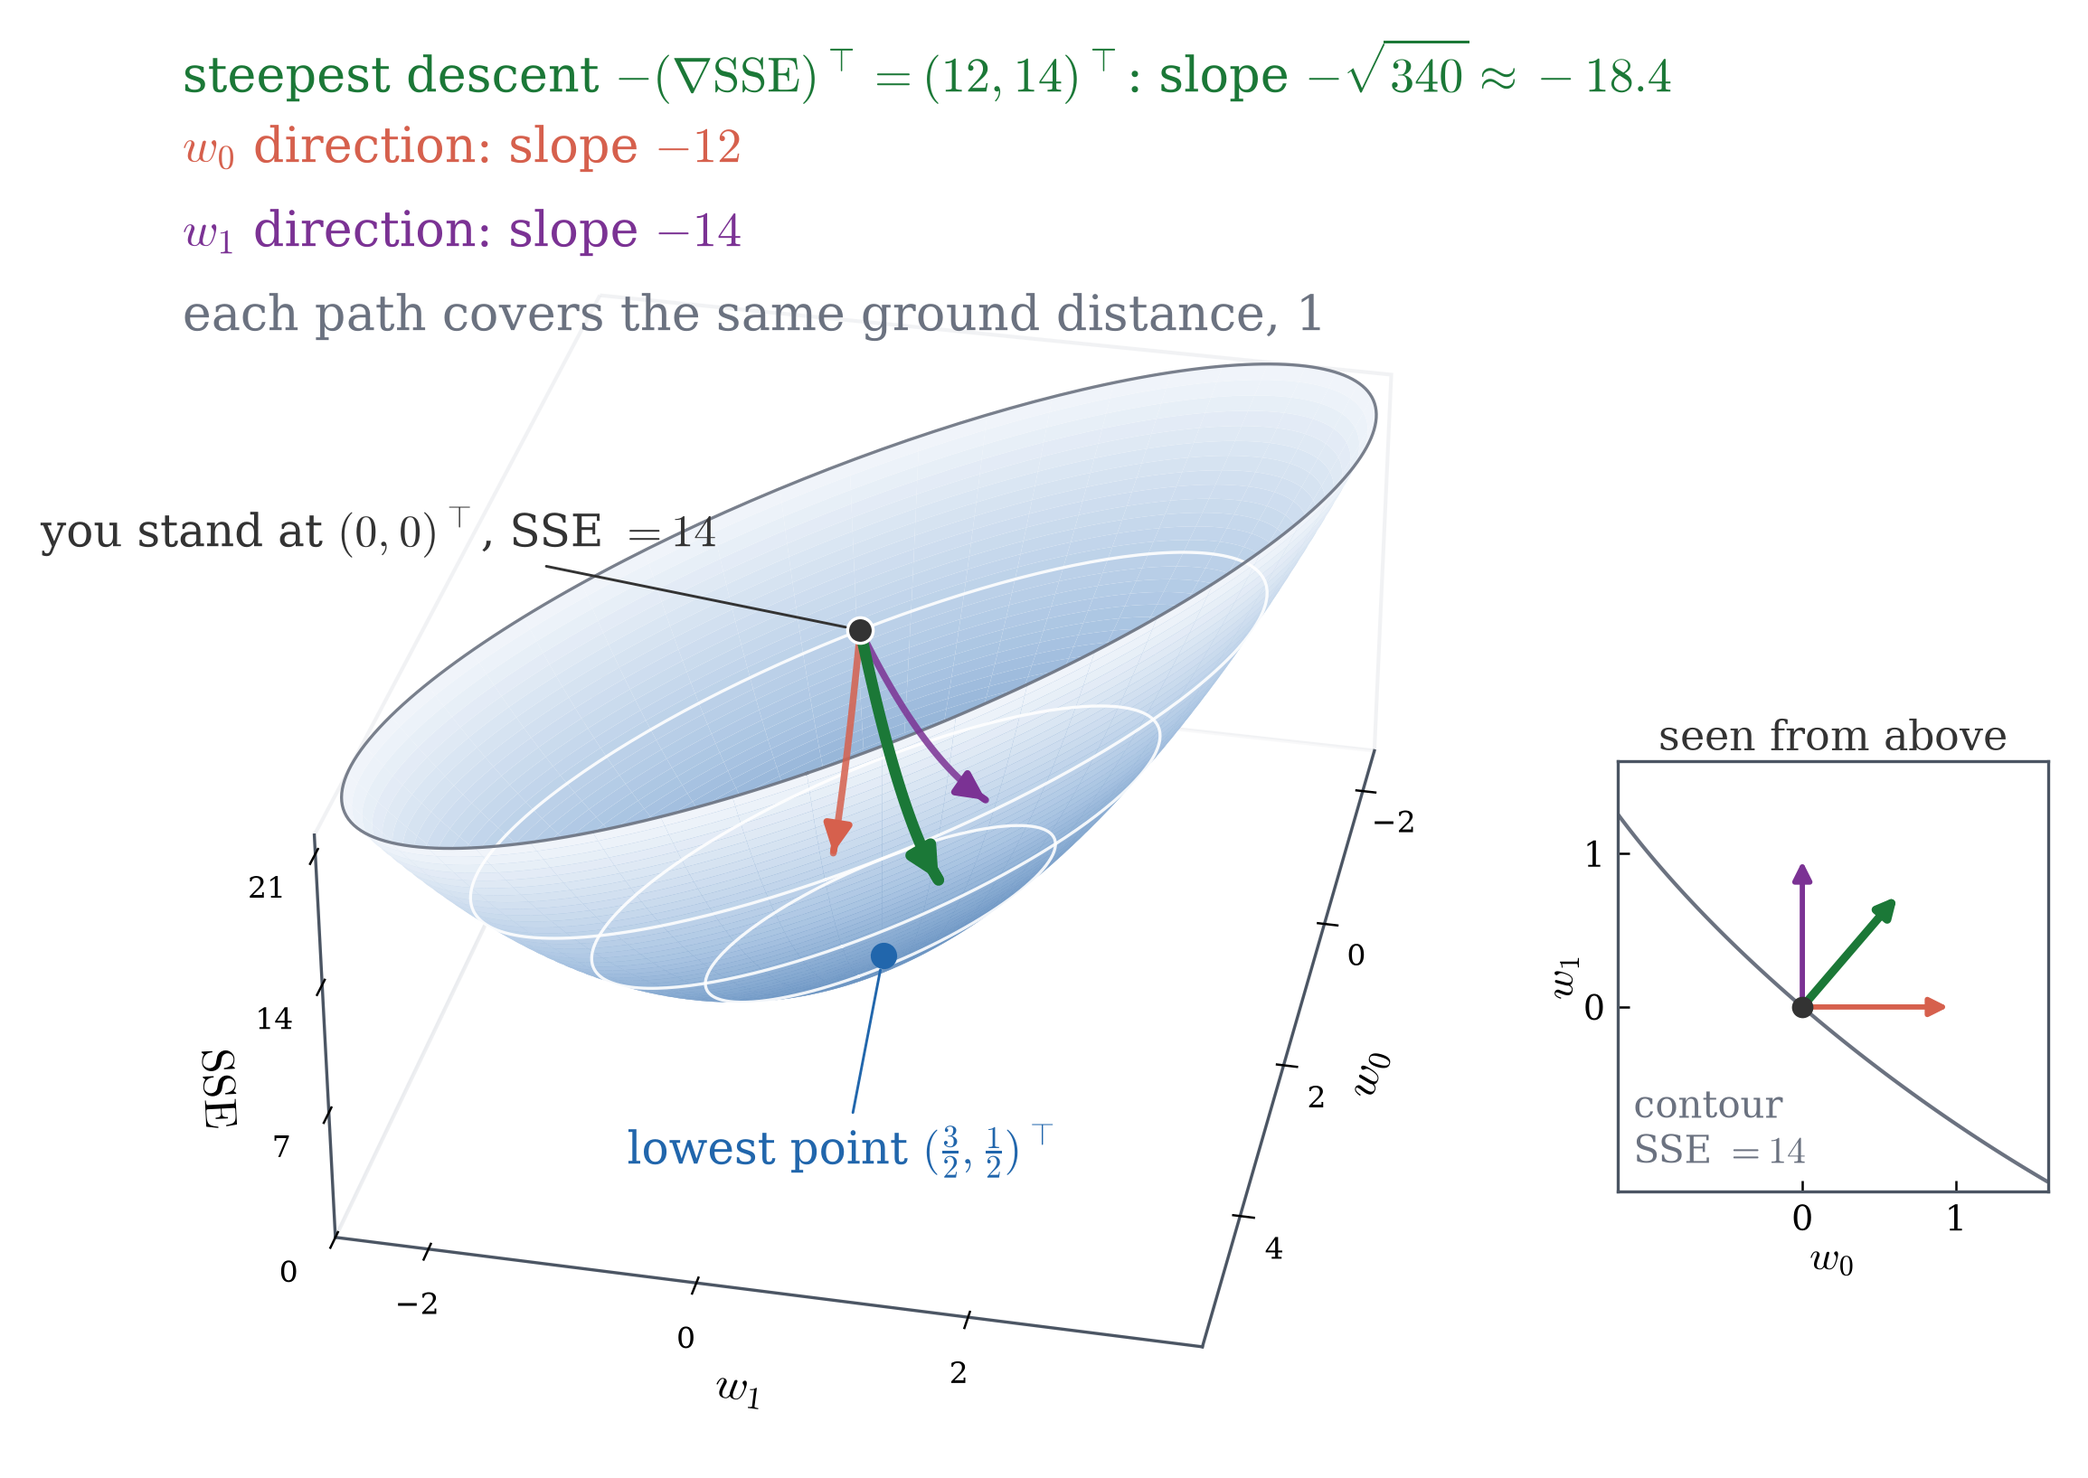
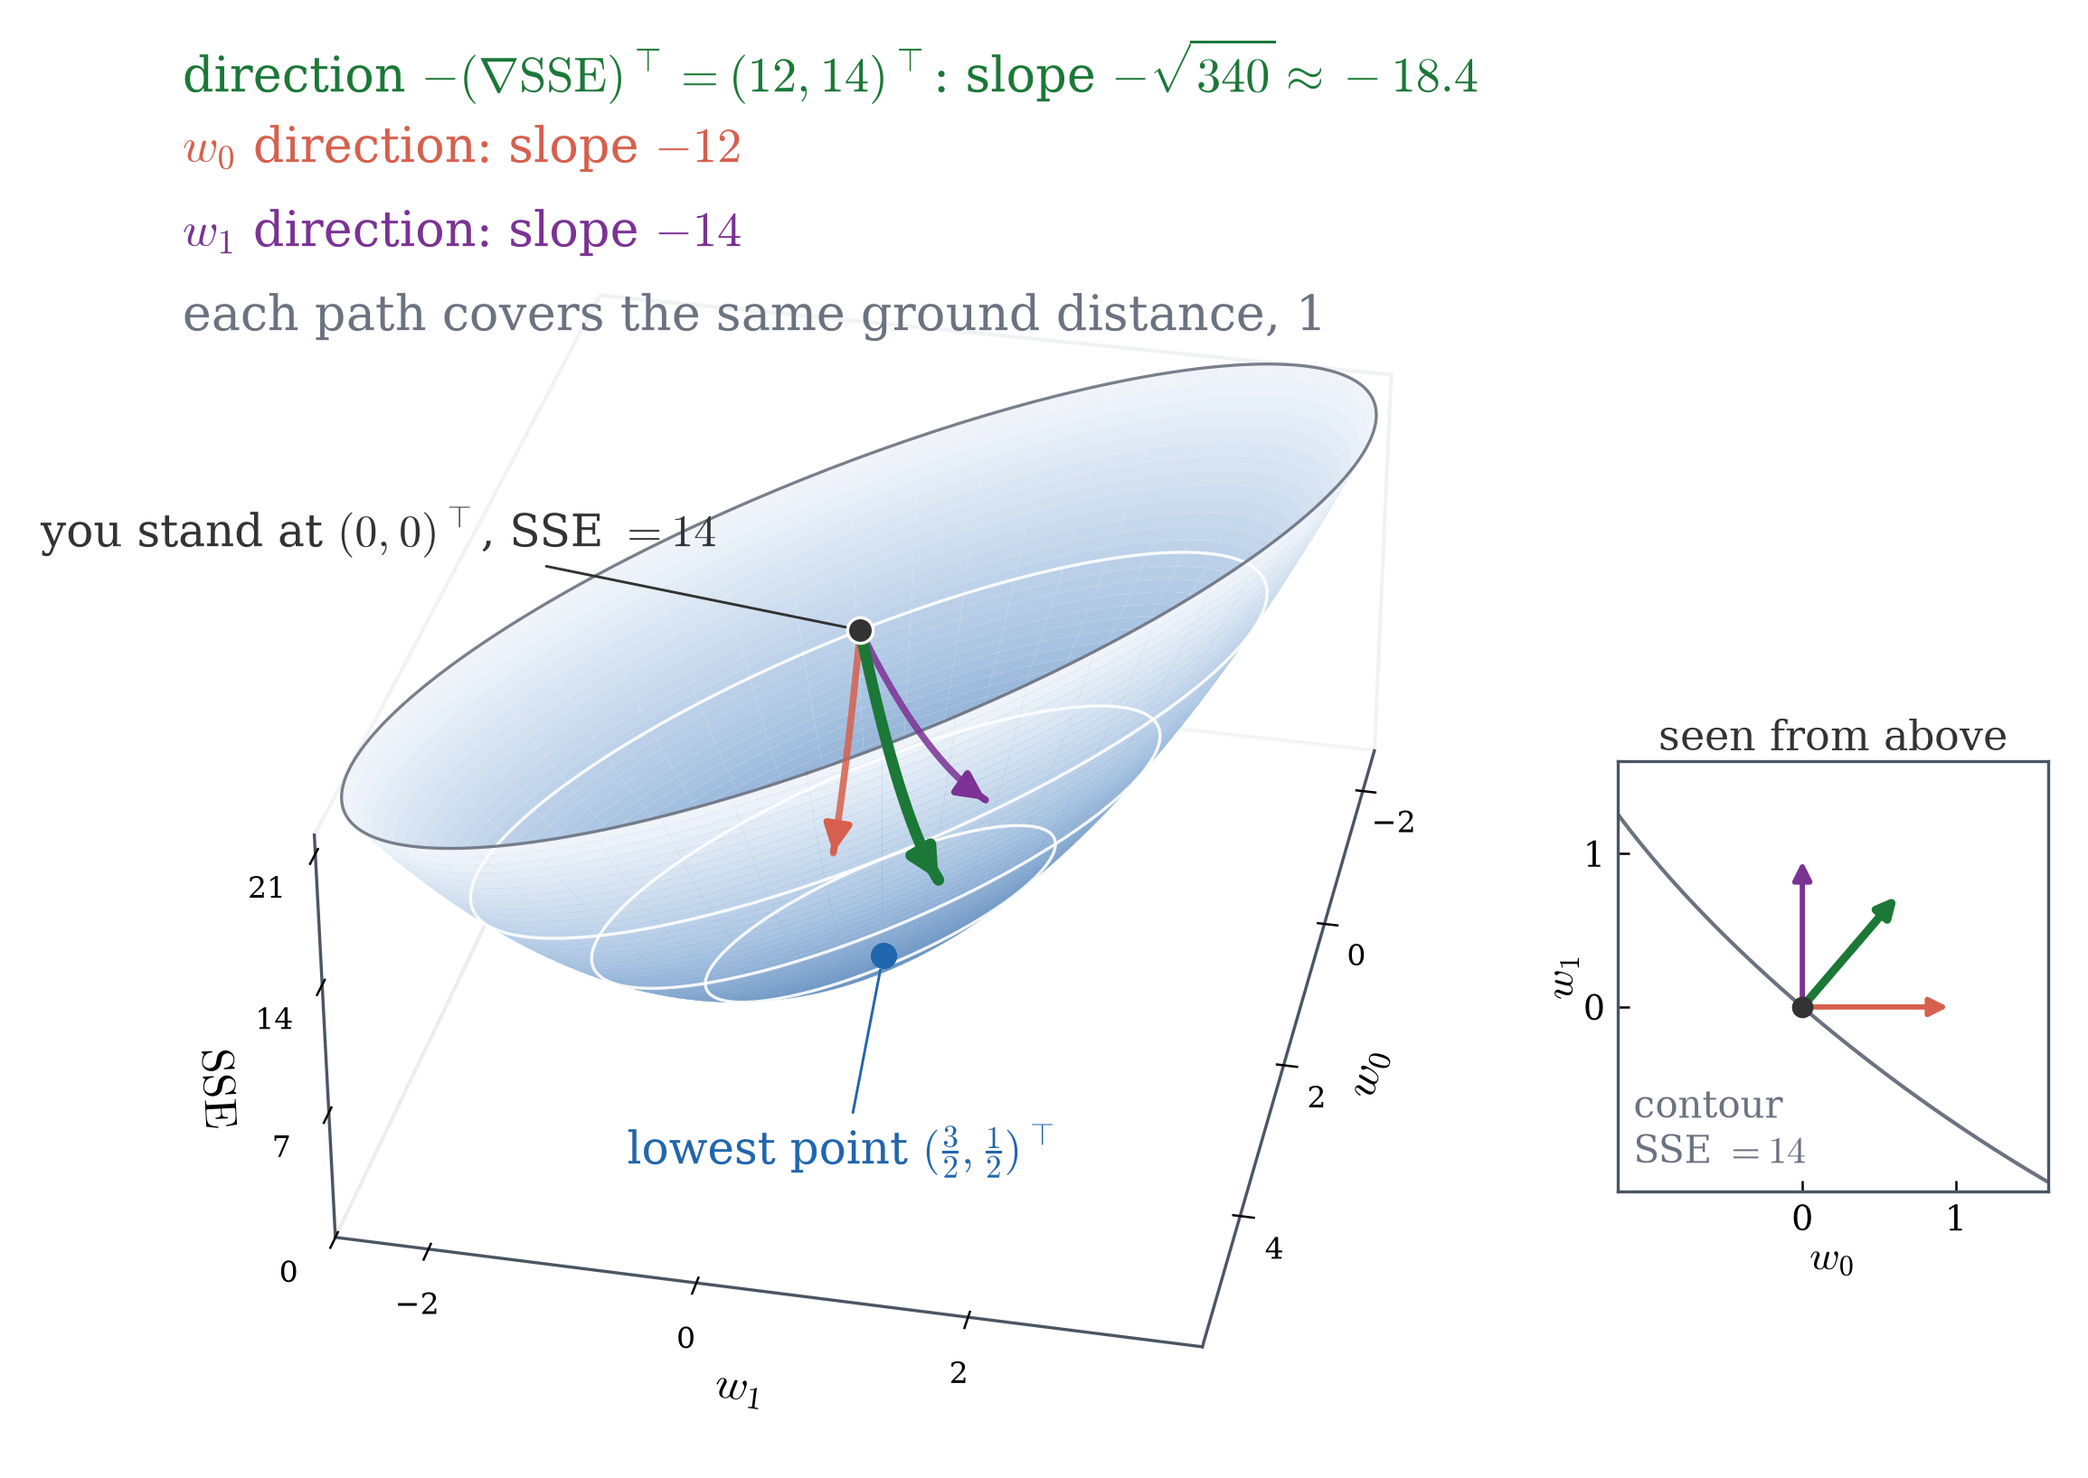
Math for DS Unit 4: revisions after the second review - global vs unique minimum, no 'steepest' before its proof, L12 goal line

Changed region(s): [[0.0935, 0.0312, 0.7172, 0.0624], [0.7484, 0.0312, 0.8107, 0.0624]]

diff --git a/slides/math-for-ds-unit04.html b/slides/math-for-ds-unit04.html
@@ -571,14 +571,15 @@ since \(\norm{X\mathbf d}^2\), a squared length, is never negative. So \(\mathbf
 <tr><td>\((0,0)^\top\)</td><td>\(14\)</td><td>\(14-\tfrac32=\tfrac{25}{2}\)</td></tr>
 </table>
 <ul>
-<li class="fragment">So there is <strong>no second valley</strong> anywhere: solving \(6w_0+6w_1-12=0,\ 6w_0+10w_1-14=0\) is enough, no search needed.</li>
+<li class="fragment">So <strong>no point has error below \(\tfrac32\)</strong>: the flat point is a global minimum, found by solving \(6w_0+6w_1-12=0,\ 6w_0+10w_1-14=0\) &mdash; no search needed.</li>
+<li class="fragment">But could another parameter vector <strong>tie</strong> the same error \(\tfrac32\)? That is a different question.</li>
 <li class="fragment">\(\mathrm{SSE}(\mathbf w)=\tfrac32+\norm{X(\mathbf w-\mathbf w^\ast)}^2\) is <strong>exact</strong> for every step, not a first-order approximation that holds only for small steps.</li>
 </ul>
 <aside class="notes">"Say it plainly: flat is local information, global is a promise about the whole plane. For least squares the Pythagoras identity turns one into the other. For most models (neural networks) nothing like it exists, which is why their training can get stuck."</aside>
 </section>
 
 <section>
-<h4>Is \(\mathbf w^\ast\) the <em>only</em> lowest point?</h4>
+<h4>Is \(\mathbf w^\ast\) the <em>only</em> global minimum?</h4>
 <p><strong>Notation.</strong> \(\mathrm{SSE}(\mathbf w)=\norm{\mathbf y-X\mathbf w}^2\); \(X=[\,\mathbf 1\;\;\mathbf t\,]\) with columns \(\mathbf 1=(1,1,1)^\top\), \(\mathbf t=(0,1,2)^\top\); \(\mathbf w^\ast=\left(\tfrac32,\tfrac12\right)^\top\); Pythagoras identity \(\mathrm{SSE}(\mathbf w)=\mathrm{SSE}(\mathbf w^\ast)+\norm{X(\mathbf w-\mathbf w^\ast)}^2\).</p>
 <div class="mathbox">
 <strong>Uniqueness.</strong> \(\mathbf w^\ast\) is the only \(\mathbf w\) with \(\mathrm{SSE}(\mathbf w)=\mathrm{SSE}(\mathbf w^\ast)\) exactly when the columns of \(X\) are linearly independent (MML Def. 2.12, p.40), that is, when \(\operatorname{rank}X\) equals the number of columns (MML &sect;2.6.2, p.47). <span class="tier-m">[MASTER]</span>
@@ -822,7 +823,7 @@ since \(\norm{X\mathbf d}^2\), a squared length, is never negative. So \(\mathbf
 
 <section>
 <h4>Before any proof: walk a distance \(1\) from \((0,0)^\top\) in three directions</h4>
-<img src="../images/unit04/u4-L11-fig10b-steepest-descent.png" alt="From (0,0) on the error valley the steepest-descent path in the direction (12,14) ends lower than the w0 and w1 walks over the same ground distance 1; an inset from above shows it crossing the contour SSE = 14 at a right angle" style="float:right; max-height:300px; max-width:42%; margin:0 0 0.5em 1em; border-radius:6px;">
+<img src="../images/unit04/u4-L11-fig10b-steepest-descent.png" alt="From (0,0) on the error valley, a unit step in the candidate direction (12,14) ends lower than unit steps along w0 and w1; an inset from above shows that direction crossing the contour SSE = 14 at a right angle" style="float:right; max-height:300px; max-width:42%; margin:0 0 0.5em 1em; border-radius:6px;">
 <p>The error \(\mathrm{SSE}=3w_0^2+6w_0w_1+5w_1^2-12w_0-14w_1+14\) is \(14\) at \((0,0)^\top\), where \(\nabla\mathrm{SSE}=\begin{bmatrix}-12&-14\end{bmatrix}\).</p>
 <ul>
 <li class="fragment">Walk a ground distance of \(1\) (the three arrows): along \(w_0\) to \((1,0)^\top\), \(\mathrm{SSE}=3-12+14=5\); along \(w_1\) to \((0,1)^\top\), \(\mathrm{SSE}=5-14+14=5\); along the gradient&rsquo;s entries with their signs flipped, \(-(\nabla\mathrm{SSE})^\top=(12,14)^\top\), to \(\tfrac{(12,14)^\top}{\sqrt{340}}\approx(0.651,0.759)^\top\): \(\mathrm{SSE}\approx2.68\), far lower.</li>
@@ -857,7 +858,7 @@ since \(\norm{X\mathbf d}^2\), a squared length, is never negative. So \(\mathbf
 <li class="fragment">\(\theta=0\): \(\cos\theta=1\), the largest slope \(+\norm{(\nabla g)^\top}\). \(\mathbf u\) points along \((\nabla g)^\top\): <strong>steepest ascent</strong>.</li>
 <li class="fragment">\(\theta=180^\circ\): \(\cos\theta=-1\), the smallest slope \(-\norm{(\nabla g)^\top}\). \(\mathbf u\) points along \(-(\nabla g)^\top\): <strong>steepest descent</strong> (MML &sect;7.1, p.228). <span class="tier-m">[MASTER]</span></li>
 <li class="fragment">\(\theta=90^\circ\): \(\cos\theta=0\), slope \(0\). \(\mathbf u\) is orthogonal to \((\nabla g)^\top\).</li>
-<li class="fragment">Moving tangent to the contour through \(\mathbf w\) has slope \(0\), since the error is constant along the contour. In the plane only two unit directions have slope \(0\): the two orthogonal to \((\nabla g)^\top\). So the two directions <strong>tangent to the contour</strong> are these two orthogonal directions, and <strong>the direction \((\nabla g)^\top\) is orthogonal to the contour</strong>. <span class="tier-m">[MASTER]</span></li>
+<li class="fragment">The direction tangent to the contour through \(\mathbf w\) has directional derivative \(0\): to first order, a small step that way does not change the error. (Following the curved contour itself keeps the error exactly constant.) In the plane only two unit directions have slope \(0\): the two orthogonal to \((\nabla g)^\top\). So the two directions <strong>tangent to the contour</strong> are these two orthogonal directions, and <strong>the direction \((\nabla g)^\top\) is orthogonal to the contour</strong>. <span class="tier-m">[MASTER]</span></li>
 <li class="fragment">If instead \(\nabla g=\mathbf 0\) &mdash; a flat point &mdash; then \(\nabla g\,\mathbf u=0\) for every \(\mathbf u\): every direction has slope \(0\).</li>
 <li class="fragment">The figure: at \((0,0)^\top\), \(D_{\mathbf u}\mathrm{SSE}=-12\cos\alpha-14\sin\alpha\) for \(\mathbf u=(\cos\alpha,\sin\alpha)^\top\): lowest \(-18.439=-\sqrt{340}\) near \(\alpha=49.4^\circ\), the direction \((0.651,0.759)^\top\) found by walking; highest \(+18.439\) near \(229.4^\circ\).</li>
 </ul>
@@ -986,8 +987,19 @@ since \(\norm{X\mathbf d}^2\), a squared length, is never negative. So \(\mathbf
 
 <!-- L12-06 -->
 <section>
+<h4>Two shapes to differentiate</h4>
+<p><strong>Overall goal:</strong> prove \(\nabla\mathrm{SSE}=-2\,\mathbf r^\top X\) for any number of features.</p>
+<p class="fragment">In \(\;\mathrm{SSE}(\mathbf w)=\mathbf w^\top X^\top X\mathbf w-2\,\mathbf w^\top X^\top\mathbf y+\mathbf y^\top\mathbf y\;\) the middle term is a number, so it equals its transpose: \(\mathbf w^\top X^\top\mathbf y=(X^\top\mathbf y)^\top\mathbf w\). With \(\mathbf b=X^\top\mathbf y\), \(A=X^\top X\): \(\;\mathrm{SSE}(\mathbf w)=\mathbf w^\top A\mathbf w-2\,\mathbf b^\top\mathbf w+\mathbf y^\top\mathbf y\) &mdash; two shapes to differentiate, \(\mathbf b^\top\mathbf w\) and \(\mathbf w^\top A\mathbf w\).</p>
+<ul>
+<li class="fragment">\(\mathbf b^\top\mathbf w\) is <strong>linear</strong> in \(\mathbf w\): every term has one parameter. Rule 1 differentiates it.</li>
+<li class="fragment">\(\mathbf w^\top A\mathbf w\) is <strong>quadratic</strong>: every term has two parameters (or one, squared). Rule 2 differentiates it.</li>
+<li class="fragment">\(\mathbf y^\top\mathbf y\) has no \(\mathbf w\) in it, so its derivative is \(0\).</li>
+</ul>
+</section>
+
+<section>
 <h4>Rule 1: the derivative of a linear function</h4>
-<p>In \(\;\mathrm{SSE}(\mathbf w)=\mathbf w^\top X^\top X\mathbf w-2\,\mathbf w^\top X^\top\mathbf y+\mathbf y^\top\mathbf y\;\) the middle term is a number, so it equals its transpose: \(\mathbf w^\top X^\top\mathbf y=(X^\top\mathbf y)^\top\mathbf w\). With \(\mathbf b=X^\top\mathbf y\), \(A=X^\top X\): \(\;\mathrm{SSE}(\mathbf w)=\mathbf w^\top A\mathbf w-2\,\mathbf b^\top\mathbf w+\mathbf y^\top\mathbf y\) &mdash; two shapes to differentiate, \(\mathbf b^\top\mathbf w\) and \(\mathbf w^\top A\mathbf w\).</p>
+<p><strong>Overall goal:</strong> prove \(\nabla\mathrm{SSE}=-2\,\mathbf r^\top X\) for any number of features.</p>
 <p class="fragment"><strong>Look first:</strong> our \(\mathbf b=(6,7)^\top\): \(\mathbf b^\top\mathbf w=6w_0+7w_1\) has partial derivatives \(6\), \(7\): the row \(\begin{bmatrix}6&7\end{bmatrix}\), \(\mathbf b\) laid flat.</p>
 <div class="mathbox fragment">
 <strong>Rule 1</strong> (MML (5.105), p.158). For a fixed column \(\mathbf b\in\R^d\): \(\;\dfrac{\partial(\mathbf b^\top\mathbf w)}{\partial\mathbf w}=\mathbf b^\top\). <span class="tier-m">[MASTER]</span>
@@ -1005,6 +1017,7 @@ since \(\norm{X\mathbf d}^2\), a squared length, is never negative. So \(\mathbf
 <!-- L12-07 -->
 <section>
 <h4>Rule 2: the statement, and multiplying out \(\mathbf w^\top A\mathbf w\)</h4>
+<p><strong>Overall goal:</strong> prove \(\nabla\mathrm{SSE}=-2\,\mathbf r^\top X\) for any number of features.</p>
 <p><strong>Look first:</strong> L09&rsquo;s partial derivatives of the quadratic part of our error, \(3w_0^2+6w_0w_1+5w_1^2=\mathbf w^\top X^\top X\mathbf w\), are \(\begin{bmatrix}6w_0+6w_1&6w_0+10w_1\end{bmatrix}=2\,\mathbf w^\top X^\top X\), with \(X^\top X=\left[\begin{smallmatrix}3&3\\3&5\end{smallmatrix}\right]\) symmetric.</p>
 <div class="mathbox">
 <strong>Rule 2</strong> (MML (5.107), p.158: for <em>any</em> square \(B\) the derivative of \(\mathbf w^\top B\mathbf w\) is \(\mathbf w^\top(B+B^\top)\); here \(B\) is symmetric). For a symmetric \(d\times d\) matrix \(A\) (that is, \(A^\top=A\)): \(\;\dfrac{\partial(\mathbf w^\top A\mathbf w)}{\partial\mathbf w}=2\,\mathbf w^\top A\). <span class="tier-m">[MASTER]</span>
@@ -1301,7 +1314,7 @@ with \(\frac{dz}{dv}\) evaluated at \(v=f(w)\). <span class="tier-m">[MASTER]</s
 
 <!-- L13-12 -->
 <section>
-<h4>A product of many factors, each of size at most \(c&lt;1\), shrinks fast</h4>
+<h4>A fixed bound \(c&lt;1\) makes the product shrink exponentially</h4>
 <img src="../images/unit04/u4-L13-fig13c-vanishing.png" alt="Log-scale plot of 0.9^k and 0.5^k for k = 1 to 50: 0.9^50 is about 0.005 and 0.5^50 is about 8.9e-16" style="float:right; max-height:250px; max-width:34%; margin:0 0 0.5em 1em; border-radius:6px;">
 <p>By the chain rule, a chain of \(k\) stages has a derivative that is a product of \(k\) stage derivatives. If all \(k\) factors have size at most one fixed \(c&lt;1\) &mdash; every factor \(0.9\), say &mdash; the product is at most \(c^k\) and shrinks fast.</p>
 <table class="fragment" style="width:auto; margin:0.3em auto; font-size:0.9em;">
@@ -1315,7 +1328,7 @@ with \(\frac{dz}{dv}\) evaluated at \(v=f(w)\). <span class="tier-m">[MASTER]</s
 <li class="fragment">&#9888;&#65039; <strong>&ldquo;Each factor below \(1\)&rdquo; is not enough</strong> &mdash; factors creeping up to \(1\), such as \(1-\tfrac12,\,1-\tfrac14,\,1-\tfrac18,\dots\), give a product that stays near \(0.29\). What matters is a fixed ceiling \(c&lt;1\).</li>
 <li class="fragment">Row \(k=50\): with \(50\) factors of \(0.9\), a small step \(\delta\) at the input of a \(50\)-stage chain moves its last output by only about \(0.005\,\delta\).</li>
 <li class="fragment">So the derivative of the error with respect to a parameter at the start of a long chain can be nearly \(0\), and the update to that parameter is tiny, so it barely moves.</li>
-<li class="fragment">In deep networks, a derivative shrunk this way, as a product of many stage derivatives of size at most some \(c&lt;1\), is called the <strong>vanishing-gradient</strong> problem. <span class="tier-u">[UNDERSTAND]</span></li>
+<li class="fragment">This scalar chain is the simplest version of the <strong>vanishing-gradient</strong> problem of deep networks, whose stages are vectors: L14 replaces the scalar factors by Jacobians. <span class="tier-u">[UNDERSTAND]</span></li>
 </ul>
 <aside class="notes">"0.5^10 = 1/1024 exactly. 0.9^10 = 0.3487, 0.9^50 = 0.00515, 0.5^50 = 8.88e-16. If they ask about factors larger than 1: the product then grows instead, the exploding case; not needed here."</aside>
 </section>
@@ -1391,23 +1404,6 @@ with \(\frac{dz}{dv}\) evaluated at \(v=f(w)\). <span class="tier-m">[MASTER]</s
 </section>
 
 <!-- L14-03 -->
-<section>
-<h4>A small example, every entry computed</h4>
-<p><strong>A separate example, not our data:</strong> \(\;\mathbf f(x_1,x_2)=\begin{bmatrix}x_1^2x_2\\3x_1+x_2^2\end{bmatrix}\), a function \(\R^2\to\R^2\), so \(J_{\mathbf f}\) is \(2\times2\).</p>
-<ul>
-<li class="fragment">\(\dfrac{\partial f_1}{\partial x_1}\): hold \(x_2\) fixed, so \(x_1^2x_2\) is \(x_2\) times \(x_1^2\), and the derivative is \(x_2\cdot2x_1=2x_1x_2\).</li>
-<li class="fragment">\(\dfrac{\partial f_1}{\partial x_2}\): hold \(x_1\) fixed, so \(x_1^2x_2\) is the constant \(x_1^2\) times \(x_2\), and the derivative is \(x_1^2\cdot1=x_1^2\).</li>
-<li class="fragment">\(\dfrac{\partial f_2}{\partial x_1}\): \(3x_1\) gives \(3\); \(x_2^2\) is held fixed, so it gives \(0\). Total \(3+0=3\).</li>
-<li class="fragment">\(\dfrac{\partial f_2}{\partial x_2}\): \(3x_1\) is held fixed, so it gives \(0\); \(x_2^2\) gives \(2x_2\). Total \(0+2x_2=2x_2\).</li>
-</ul>
-<div class="fragment">
-\[J_{\mathbf f}=\begin{bmatrix}2x_1x_2&x_1^2\\3&2x_2\end{bmatrix},\qquad
-J_{\mathbf f}(1,2)=\begin{bmatrix}2\cdot1\cdot2&1^2\\3&2\cdot2\end{bmatrix}=\begin{bmatrix}4&1\\3&4\end{bmatrix}.\]
-</div>
-<p class="fragment">The output at \((1,2)^\top\): \(\mathbf f(1,2)=\big(1^2\cdot2,\;3\cdot1+2^2\big)^\top=(2,\,7)^\top\).</p>
-<aside class="notes">"Row 1 came from f1 only, row 2 from f2 only. Column 1 came from differentiating in x1 only. Have them say which entry each bullet fills before it appears."</aside>
-</section>
-
 <!-- L14-05 -->
 <section>
 <h4>The Jacobian of the prediction stage is \(X\)</h4>
@@ -1429,6 +1425,23 @@ J_{\mathbf f}(1,2)=\begin{bmatrix}2\cdot1\cdot2&1^2\\3&2\cdot2\end{bmatrix}=\beg
 </ul>
 <div class="key-question fragment"><strong>The Jacobian of the prediction stage is \(X\) itself</strong> &mdash; the matrix students have been carrying since Week 2. Nothing new had to be built. <span class="tier-m">[MASTER]</span></div>
 <aside class="notes">"The six sensitivities of the first slide are the six entries of X. The zero in row 1 is the student who studied 0 hours: the slope parameter cannot reach that prediction."</aside>
+</section>
+
+<section>
+<h4>Quick check, separate example: a Jacobian computed entry by entry</h4>
+<p><strong>A separate example, not our data:</strong> \(\;\mathbf f(x_1,x_2)=\begin{bmatrix}x_1^2x_2\\3x_1+x_2^2\end{bmatrix}\), a function \(\R^2\to\R^2\), so \(J_{\mathbf f}\) is \(2\times2\).</p>
+<ul>
+<li class="fragment">\(\dfrac{\partial f_1}{\partial x_1}\): hold \(x_2\) fixed, so \(x_1^2x_2\) is \(x_2\) times \(x_1^2\), and the derivative is \(x_2\cdot2x_1=2x_1x_2\).</li>
+<li class="fragment">\(\dfrac{\partial f_1}{\partial x_2}\): hold \(x_1\) fixed, so \(x_1^2x_2\) is the constant \(x_1^2\) times \(x_2\), and the derivative is \(x_1^2\cdot1=x_1^2\).</li>
+<li class="fragment">\(\dfrac{\partial f_2}{\partial x_1}\): \(3x_1\) gives \(3\); \(x_2^2\) is held fixed, so it gives \(0\). Total \(3+0=3\).</li>
+<li class="fragment">\(\dfrac{\partial f_2}{\partial x_2}\): \(3x_1\) is held fixed, so it gives \(0\); \(x_2^2\) gives \(2x_2\). Total \(0+2x_2=2x_2\).</li>
+</ul>
+<div class="fragment">
+\[J_{\mathbf f}=\begin{bmatrix}2x_1x_2&x_1^2\\3&2x_2\end{bmatrix},\qquad
+J_{\mathbf f}(1,2)=\begin{bmatrix}2\cdot1\cdot2&1^2\\3&2\cdot2\end{bmatrix}=\begin{bmatrix}4&1\\3&4\end{bmatrix}.\]
+</div>
+<p class="fragment">The output at \((1,2)^\top\): \(\mathbf f(1,2)=\big(1^2\cdot2,\;3\cdot1+2^2\big)^\top=(2,\,7)^\top\).</p>
+<aside class="notes">"Row 1 came from f1 only, row 2 from f2 only. Column 1 came from differentiating in x1 only. Have them say which entry each bullet fills before it appears."</aside>
 </section>
 
 <!-- L14-06 -->
